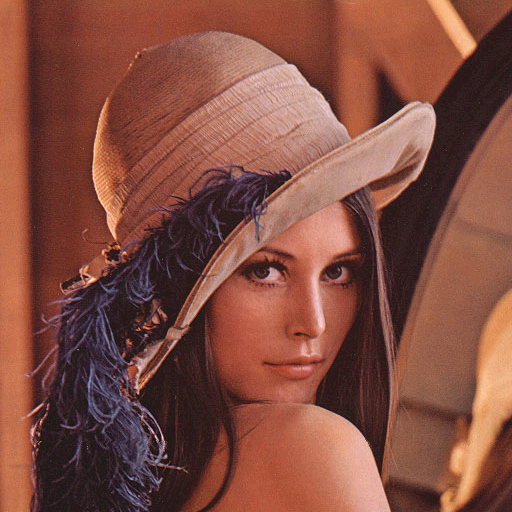
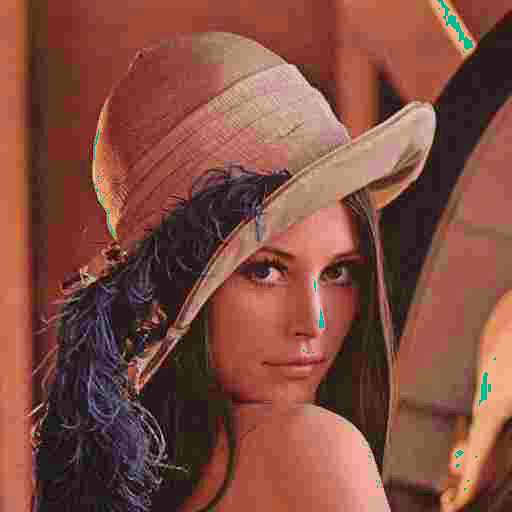
reversion with extra histogram inhacment complete

diff --git a/revert.py b/revert.py
@@ -1,173 +1,190 @@
 import sys
 import numpy as np
-from PyQt5.QtWidgets import (QApplication, QMainWindow, QPushButton, QFileDialog, 
-                            QLabel, QVBoxLayout, QWidget, QTextEdit, QMessageBox)
-from PyQt5.QtGui import QPixmap
+from PyQt5.QtWidgets import (QApplication, QMainWindow, QPushButton, 
+                            QFileDialog, QLabel, QVBoxLayout, QWidget, 
+                            QTextEdit, QHBoxLayout)
+from PyQt5.QtGui import QPixmap, QImage
 from PyQt5.QtCore import Qt
 from PIL import Image
 
-class BitViewerApp(QMainWindow):
+class BitImageProcessor(QMainWindow):
     def __init__(self):
         super().__init__()
-        self.setWindowTitle('Image Bit Viewer & Processor')
-        self.setGeometry(100, 100, 800, 800)
+        self.initUI()
+        self.image_path = None
+        self.original_image = None
+        self.processed_image = None
         
-        # Main widget and layout
-        self.central_widget = QWidget()
-        self.setCentralWidget(self.central_widget)
-        self.layout = QVBoxLayout(self.central_widget)
+    def initUI(self):
+        self.setWindowTitle('Bit Image Processor')
+        self.setGeometry(100, 100, 900, 700)
         
-        # Image display
+        central_widget = QWidget()
+        self.setCentralWidget(central_widget)
+        
+        layout = QVBoxLayout()
+        
+        # Image display area
         self.image_label = QLabel()
         self.image_label.setAlignment(Qt.AlignCenter)
         self.image_label.setStyleSheet("border: 2px solid gray;")
-        self.layout.addWidget(self.image_label)
+        self.image_label.setMinimumSize(400, 300)
         
         # Console output
         self.console = QTextEdit()
         self.console.setReadOnly(True)
-        self.console.setMaximumHeight(200)
-        self.layout.addWidget(self.console)
+        self.console.setStyleSheet("font-family: monospace;")
         
         # Buttons
-        self.load_button = QPushButton('Load Image')
-        self.load_button.clicked.connect(self.load_image)
+        btn_layout = QHBoxLayout()
         
-        self.process_button = QPushButton('Process Bits (Left Shift 3)')
-        self.process_button.clicked.connect(self.process_bits)
-        self.process_button.setEnabled(False)
+        self.btn_load = QPushButton('Load Image')
+        self.btn_load.clicked.connect(self.load_image)
         
-        self.save_button = QPushButton('Save Processed Image')
-        self.save_button.clicked.connect(self.save_image)
-        self.save_button.setEnabled(False)
+        self.btn_process = QPushButton('Process Bits')
+        self.btn_process.clicked.connect(self.process_bits)
+        self.btn_process.setEnabled(False)
         
-        button_layout = QVBoxLayout()
-        button_layout.addWidget(self.load_button)
-        button_layout.addWidget(self.process_button)
-        button_layout.addWidget(self.save_button)
-        self.layout.addLayout(button_layout)
+        self.btn_save = QPushButton('Save Processed Image')
+        self.btn_save.clicked.connect(self.save_image)
+        self.btn_save.setEnabled(False)
         
-        # Image data storage
-        self.original_image = None
-        self.processed_image = None
-        self.bit_values = None
-        self.shifted_values = None
-
+        btn_layout.addWidget(self.btn_load)
+        btn_layout.addWidget(self.btn_process)
+        btn_layout.addWidget(self.btn_save)
+        
+        # Add widgets to main layout
+        layout.addWidget(self.image_label)
+        layout.addWidget(self.console)
+        layout.addLayout(btn_layout)
+        
+        central_widget.setLayout(layout)
+        
     def load_image(self):
         options = QFileDialog.Options()
         file_path, _ = QFileDialog.getOpenFileName(
             self, 'Select Image', '', 
-            'Image Files (*.png *.jpg *.jpeg *.bmp *.tiff);;All Files (*)', options=options)
-        
+            'Image Files (*.png *.jpg *.jpeg *.bmp *.tiff);;All Files (*)', 
+            options=options)
+            
         if file_path:
+            self.image_path = file_path
             try:
-                # Load image using PIL (handles all formats)
-                img = Image.open(file_path)
-                self.original_image = np.array(img)
+                # Load with PIL first to handle all formats
+                pil_img = Image.open(file_path)
+                self.original_image = np.array(pil_img)
                 
-                # Display image
-                pixmap = QPixmap(file_path)
-                self.image_label.setPixmap(pixmap.scaled(600, 400, Qt.KeepAspectRatio))
+                # Convert to QImage for display
+                if pil_img.mode == 'RGB':
+                    qimage = QImage(self.original_image.data, 
+                                   self.original_image.shape[1], 
+                                   self.original_image.shape[0], 
+                                   QImage.Format_RGB888)
+                elif pil_img.mode == 'RGBA':
+                    qimage = QImage(self.original_image.data, 
+                                   self.original_image.shape[1], 
+                                   self.original_image.shape[0], 
+                                   QImage.Format_RGBA8888)
+                else:  # Grayscale
+                    qimage = QImage(self.original_image.data, 
+                                   self.original_image.shape[1], 
+                                   self.original_image.shape[0], 
+                                   QImage.Format_Grayscale8)
                 
-                # Get and display bit values (first 10x10 pixels for demo)
-                height, width = self.original_image.shape[:2]
-                sample_size = min(10, height, width)
+                pixmap = QPixmap.fromImage(qimage)
+                self.image_label.setPixmap(pixmap.scaled(
+                    self.image_label.size(), 
+                    Qt.KeepAspectRatio, 
+                    Qt.SmoothTransformation))
                 
-                # For RGB images, take first channel; for grayscale use as-is
-                if len(self.original_image.shape) == 3:
-                    sample_data = self.original_image[:sample_size, :sample_size, 0]
-                else:
-                    sample_data = self.original_image[:sample_size, :sample_size]
-                
-                self.bit_values = sample_data
-                self.display_bit_values(sample_data, "Original Bit Values (Sample):")
-                
-                self.process_button.setEnabled(True)
-                self.processed_image = None
-                self.save_button.setEnabled(False)
+                self.btn_process.setEnabled(True)
+                self.console.clear()
+                self.console.append(f"Loaded image: {file_path}")
+                self.console.append(f"Dimensions: {self.original_image.shape}")
                 
             except Exception as e:
-                QMessageBox.critical(self, 'Error', f'Failed to load image: {str(e)}')
-
-    def display_bit_values(self, data, title):
-        """Display bit values in the console"""
-        self.console.append(f"\n{title}\n" + "="*40)
-        
-        # For 2D array (grayscale or single channel)
-        if len(data.shape) == 2:
-            for row in data:
-                row_str = ' '.join([f'{pixel:03d}' for pixel in row])
-                self.console.append(row_str)
-        # For RGB (we're just showing first channel)
-        else:
-            for row in data:
-                channel_str = ' '.join([f'{pixel[0]:03d}' for pixel in row])
-                self.console.append(channel_str)
-
+                self.console.append(f"Error loading image: {str(e)}")
+    
     def process_bits(self):
         if self.original_image is None:
             return
             
         try:
-            # Process the image (left shift 3 bits)
-            if len(self.original_image.shape) == 3:  # RGB
-                self.processed_image = np.left_shift(self.original_image[:, :, :3], 3)
-                sample_data = self.processed_image[:10, :10, 0]  # Sample first channel
-            else:  # Grayscale
-                self.processed_image = np.left_shift(self.original_image, 3)
-                sample_data = self.processed_image[:10, :10]
+            self.console.append("\nProcessing bits...")
+            
+            # Display original bits (first 5x5 pixels as example)
+            sample = self.original_image[:5, :5]
+            self.console.append("\nOriginal pixel values (5x5 sample):")
+            self.console.append(str(sample))
+            
+            # Process bits: shift left 3 and add 4
+            self.processed_image = (self.original_image << 3) + 4
             
             # Clip values to 0-255 range
             self.processed_image = np.clip(self.processed_image, 0, 255).astype(np.uint8)
             
-            # Display shifted values
-            self.shifted_values = sample_data
-            self.display_bit_values(sample_data, "Shifted Bit Values (Sample):")
+            # Display processed bits
+            processed_sample = self.processed_image[:5, :5]
+            self.console.append("\nProcessed pixel values (5x5 sample):")
+            self.console.append(str(processed_sample))
             
-            # Show processed image preview
-            if len(self.processed_image.shape) == 3:
-                img = Image.fromarray(self.processed_image)
-            else:
-                img = Image.fromarray(self.processed_image).convert('L')
-                
-            img.save('temp_processed.png')  # Temporary save for preview
-            self.image_label.setPixmap(QPixmap('temp_processed.png').scaled(600, 400, Qt.KeepAspectRatio))
+            # Display the processed image
+            if len(self.processed_image.shape) == 2:  # Grayscale
+                qimage = QImage(self.processed_image.data, 
+                               self.processed_image.shape[1], 
+                               self.processed_image.shape[0], 
+                               QImage.Format_Grayscale8)
+            else:  # Color
+                qimage = QImage(self.processed_image.data, 
+                               self.processed_image.shape[1], 
+                               self.processed_image.shape[0], 
+                               QImage.Format_RGB888)
             
-            self.save_button.setEnabled(True)
+            pixmap = QPixmap.fromImage(qimage)
+            self.image_label.setPixmap(pixmap.scaled(
+                self.image_label.size(), 
+                Qt.KeepAspectRatio, 
+                Qt.SmoothTransformation))
+            
+            self.btn_save.setEnabled(True)
+            self.console.append("\nProcessing complete!")
             
         except Exception as e:
-            QMessageBox.critical(self, 'Error', f'Processing failed: {str(e)}')
-
+            self.console.append(f"Error processing image: {str(e)}")
+    
     def save_image(self):
         if self.processed_image is None:
             return
             
         options = QFileDialog.Options()
         file_path, _ = QFileDialog.getSaveFileName(
-            self, 'Save Processed Image', '', 
-            'PNG Image (*.png);;JPEG Image (*.jpg);;BMP Image (*.bmp);;TIFF Image (*.tiff)', 
+            self, 'Save Image', '', 
+            'PNG Files (*.png);;JPEG Files (*.jpg *.jpeg);;All Files (*)', 
             options=options)
-        
+            
         if file_path:
             try:
-                if len(self.processed_image.shape) == 3:
-                    img = Image.fromarray(self.processed_image)
-                else:
-                    img = Image.fromarray(self.processed_image).convert('L')
+                # Convert numpy array to PIL Image
+                if len(self.processed_image.shape) == 2:  # Grayscale
+                    pil_img = Image.fromarray(self.processed_image, mode='L')
+                else:  # Color
+                    pil_img = Image.fromarray(self.processed_image, mode='RGB')
                 
-                # Determine format from extension
-                if file_path.lower().endswith('.jpg') or file_path.lower().endswith('.jpeg'):
-                    img.save(file_path, 'JPEG', quality=95)
+                # Save with appropriate format based on extension
+                if file_path.lower().endswith('.png'):
+                    pil_img.save(file_path, 'PNG')
+                elif file_path.lower().endswith(('.jpg', '.jpeg')):
+                    pil_img.save(file_path, 'JPEG', quality=95)
                 else:
-                    img.save(file_path)
+                    pil_img.save(file_path)  # Default to PNG
                 
-                QMessageBox.information(self, 'Success', 'Image saved successfully!')
+                self.console.append(f"\nImage saved to: {file_path}")
                 
             except Exception as e:
-                QMessageBox.critical(self, 'Error', f'Failed to save image: {str(e)}')
+                self.console.append(f"Error saving image: {str(e)}")
 
 if __name__ == '__main__':
     app = QApplication(sys.argv)
-    window = BitViewerApp()
+    window = BitImageProcessor()
     window.show()
     sys.exit(app.exec_())
